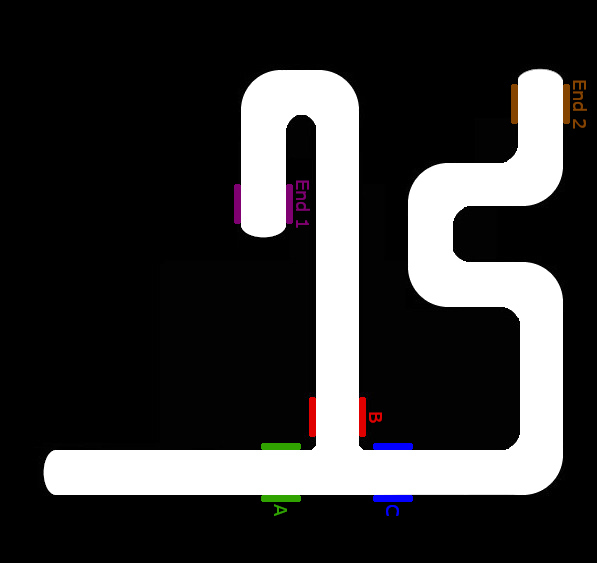
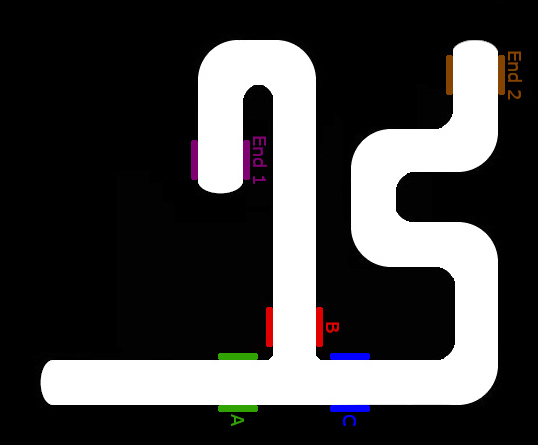
Change track dimensions

Changed region(s): [[0.0595, 0.0876, 0.9814, 0.964]]

diff --git a/src/python/env/carenv/car/position.py b/src/python/env/carenv/car/position.py
@@ -38,17 +38,22 @@ class Position():
 
     def car_position(self):
         c = self.car_position_coordinates()
-        if c.x > 8.25 and c.x < 9 and c.y > -0.7 and c.y < 0.7:
+        if c.x > 7.6 and c.x < 8.4 and c.y < 3:
             return "A"
-        if c.x > 9.55 and c.x < 10.8 and c.y > 1.38 and c.y < 2.13:
+
+        if c.x < 12 and c.y > 1.6 and c.y < 2.4:
             return "B"
-        if c.x > 11.38 and c.x < 12.13 and c.y > -0.7 and c.y < 0.7:
+
+        if c.x > 11.8 and c.x < 12.6 and c.y < 3:
             return "C"
-        if c.x > 6.68 and c.x < 8 and c.y > 9.45 and c.y < 11:
+
+        if c.x < 10 and c.y > 7 and c.y < 9.8:
             return "END1"
-        if c.x > 17.2 and c.x < 18.5 and c.y > 13.6 and c.y < 14.9:
+
+        if c.x > 14 and c.y > 14:
             return "END2"
-        if c.x < 0.3 and c.y > -0.7 and c.y < 0.7:
+
+        if c.x < 0.2:
             return "START"
         return ""
 

diff --git a/src/python/env/carenv/car/target.py b/src/python/env/carenv/car/target.py
@@ -39,13 +39,13 @@ class Target():
                 self.marker[target].color.b = 0.6
                 self.marker[target].color.a = 1.0
             point = PointStamped()
-            point.point.x = 7.5
-            point.point.y = 8.4
+            point.point.x = 6.96
+            point.point.y = 7.96
             point.point.z = 0
             self.marker[TARGETS[0]].pose.position = point.point
             self.marker_publisher.publish(self.marker[TARGETS[0]])
             point = PointStamped()
-            point.point.x = 18
+            point.point.x = 18.32
             point.point.y = 15.9
             point.point.z = 0
             self.marker[TARGETS[1]].pose.position = point.point
